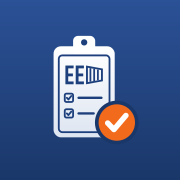
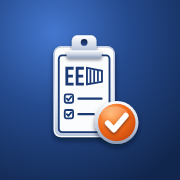
v4.41 + s20 - Iconite cu volum (umbre si lumini)

diff --git a/sofer/sofer.js b/sofer/sofer.js
@@ -26,7 +26,7 @@ import { openHistoryScreen } from '../pv/js/screens-history.js';
 import { buildComenziActive } from '../pv/js/screens-comenzi.js';
 import { openSettingsScreen } from '../pv/js/screens-setup.js';
 
-export const SOFER_VERSION = 's19';
+export const SOFER_VERSION = 's20';
 
 const KEY_ZI = 'ee-sofer-zi'; // ziua deschisa: { zi, coleg, carId, km, trasee, zile, zona, ordine, ruta }
 const KEY_ULTIMA = 'ee-sofer-ultima'; // ultimele alegeri (masina, traseu, zona) — precompletare

diff --git a/sofer/sw.js b/sofer/sw.js
@@ -6,7 +6,7 @@
 
 // {cache:'reload'/'no-store'}: GitHub Pages lasa browserul sa tina fisierele 10 minute; fara asta, dupa un Push
 // telefonul putea lua tot varianta veche (gasit 03.10: ordinea butoanelor nu se schimba).
-const VERSIUNE = 'sofer-ee-s19';
+const VERSIUNE = 'sofer-ee-s20';
 const PV = [
   'css/styles.css', 'css/print.css',
   'js/db.js', 'js/utils.js', 'js/router.js', 'js/components.js', 'js/catalog-defaults.js',

diff --git a/sw.js b/sw.js
@@ -1,7 +1,7 @@
 // sw.js — GestiuneEE. Ține aplicația instalabilă și o pornește repede,
 // dar NU păstrează niciodată în memorie datele din Supabase: acelea trebuie
 // să fie mereu proaspete.
-const VERSIUNE = 'gestiune-ee-v4.40';
+const VERSIUNE = 'gestiune-ee-v4.41';
 const SCHELET = [
   './',
   './index.html',
